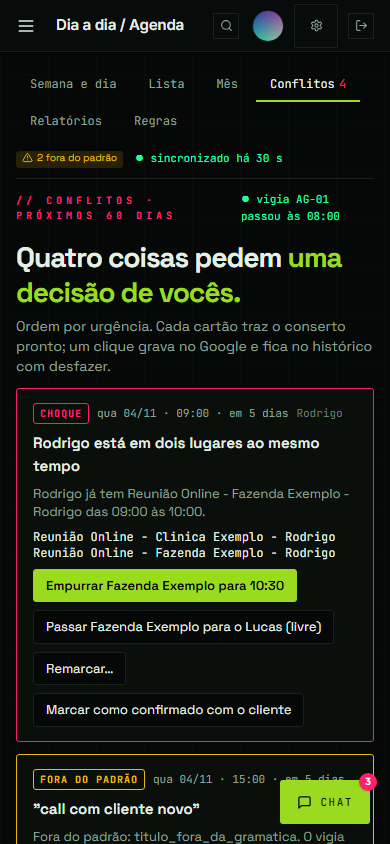
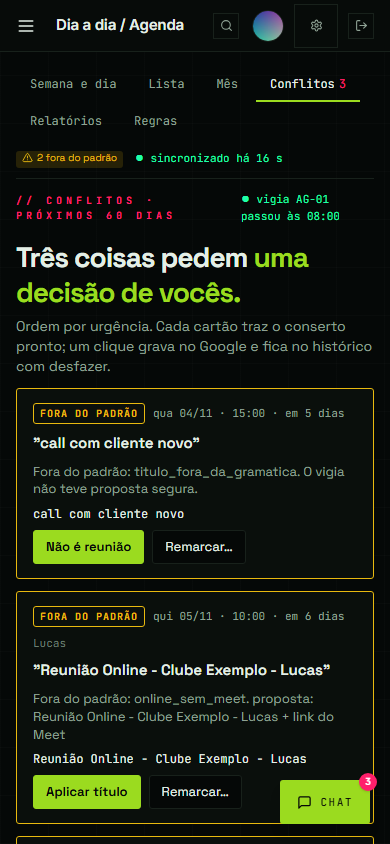
Agenda v2 · prova de dia 15/15 e o RESULTADO fechado

diff --git a/homolog/progresso.md b/homolog/progresso.md
@@ -243,3 +243,4 @@
 - 2026-10-30 00:05 · Agenda v2 29/10 · lane D integrada: decisão 2 na porta (ExecCtx.naTela; aprovacaoR2Ligada da versão ativa lida só para user+naTela+gente relida no banco; sobrescrever aceita o campo como afrouxamento com autor e motivo; CLI sobrescrita-r2-da-agenda), efeitos marcar/alterar/cancelar/desmarcar/reabrir em google/agenda-escrita.google.ts (id do evento pela chave, Meet, sendUpdates=all, propriedades do OS, nunca apaga), POST /agenda/escritas com régua antes da porta e desfazer pronto, GET /agenda/historico do ToolCall, GET /agenda/aprovacao-r2 e cartão em Configurações, link de escolha (AgendaConvite, token orgId.segredo com só o hash no banco, 404 igual, uso único condicionado, teto por IP, confirmar vai à fila como sistema), página /agendar/[token]. A+B+D: tsc api limpo; agenda+porta+escritas 270/270.
 - 2026-10-30 01:02 · Agenda v2 29/10 · lane C integrada (a tela: seis abas, grade com terços e +N, Fechado tracejado, faixas de Fora e feriado, altura, Calendário, painel de marcar com frase, cliente do Funil, semáforo, marcar assim mesmo, link de escolha, detalhe com editar/arrastar/esticar/cancelar e histórico, Lista com AGORA e Meet, Mês; busca GET /agenda/clientes), revisão adversarial 'fecha com ressalvas' (A1 pedido do link que vence, A2 convite ao cliente no clique = [a decidir], M1-M5, B1-B7) e lane E com os consertos (A1, M1-M4, B1, B2, B4, B5: tabelas novas no isolamento, 552/554 com o papel restrito, os 2 vermelhos fora da agenda); integração achou e consertou: o link público num controlador só dele (catraca de módulos), a chave do pedido da tela em base32hex (Marcar pela tela era recusado), Meet repetido no semáforo, meia-risca nos intervalos; 3030 e 3031 na imagem agenda-v2 (3030 com os dados iguais, migrations 120 → 134); e2e noturno 12/15 (fila por fora_da_janela onde devia; as 3 falhas eram o CLI pendurado e o seletor do e2e).
 - 2026-10-30 03:40 · Agenda v2 29/10 · suítes inteiras em 3d0a32f6: API 6145 (312 vermelhos contra 316 da base 16a92871, nenhum novo), web 2202 (72, igual à base), política 114/114, tsc limpo; imagem agenda-v2 (5953ba876953) nas duas stacks (3030 com os dados iguais); e2e agenda-v2 noturno 15/15; regressão: producao22c/22b/22 falham nos MESMOS passos na imagem da agenda v2 e numa imagem de 16a92871 (mudanças da produção depois da 22C), e a imagem da base subiu sobre o banco com a migration nova (volta segura). RESULTADO-AGENDA-V2 escrito; tag e bundle provisórios; a prova de dia espera a janela das 08h.
+- 2026-10-30 09:10 · Agenda v2 29/10 · prova de dia: e2e agenda-v2 PASSA 15/15 às 09:10 (marcar pela tela no clique em R2 sem aprovação, empurrar dos Conflitos no clique, desfazer = desmarcar no Google, segundo marcar da hora na fila por volume_atipico); achado registrado no RESULTADO: com a média de uso de uma agenda, volume_atipico acende na segunda chamada da capacidade na hora ([a decidir], ajuste de política). Tag agenda-v2-entrega-20261030 e bundle refeitos.

diff --git a/homolog/RESULTADO-AGENDA-V2.md b/homolog/RESULTADO-AGENDA-V2.md
@@ -62,7 +62,7 @@ Testes da rodada (todos verdes): API `agenda-espelho` 27, `agenda-espelho-duble`
 | Rodada | Resultado |
 |---|---|
 | Noite (01:10, fora da janela) · `homolog/provas/noite-agenda-v2.json` | **PASSA 15/15**: a frase preenche o painel; marcar pela tela vai à fila com `fora_da_janela` (R3) e nada chega ao Google sem aprovação; a rota antiga vai à fila; o choque aparece em Conflitos com o "empurrar" pronto; feriado (Finados) bloqueia; Fora fecha o dia; Fechado conta; arrastar respeita a régua (o próprio evento fora da conta); o link mostra só livres (nenhum título ou cliente na resposta), token errado = 404, confirma, vai à fila do link, a mesa libera e o convite chega ao cliente, `.ics` sai, segunda escolha recusada; o histórico; 23 capturas sem rolagem lateral a 390 px |
-| Dia (dentro da janela) · `homolog/provas/agenda-v2.json` | (a rodar depois das 08h) |
+| Dia (09:10, dentro da janela, uma hora depois da última escrita) · `homolog/provas/agenda-v2.json` | **PASSA 15/15**: com a sobrescrita aplicada pelo CLI, **marcar pela tela saiu no clique** (régua R2, sem aprovação; o Google recebeu o insert com `sendUpdates=all`); o "empurrar" do choque em Conflitos saiu no clique e o choque sumiu; o **desfazer** (desmarcar) cancelou no Google o evento que o OS criou e devolveu o próximo desfazer (reabrir); o segundo marcar da mesma hora foi à fila por `volume_atipico` (§8); a rota antiga e o link público seguem na fila; o resto como na noite. Antes desta, três rodadas seguidas às 08h05 mostraram o mesmo sinal acendendo já no primeiro marcar, porque as rodadas anteriores tinham deixado chamadas na última hora |
 
 **Regressão pelos e2e das rodadas anteriores** (3031): `producao22c` 12/18, `producao22b` 13/14 e `producao22` com o passo M1 vermelho, **idênticos** na imagem da agenda v2 e numa imagem construída de `16a92871` (a produção), rodados um depois do outro na mesma stack: os passos que falham (22C: 04, 06 a 09, 11; 22B: 08, o menu da tarefa agora com nove ações; 22: M1, o cartão Implantação do Dia a dia) vêm das mudanças da produção depois da 22C, não desta rodada. A mesma troca provou a **volta segura**: a imagem da base subiu saudável sobre o banco que já tem a migration da agenda v2.
 
